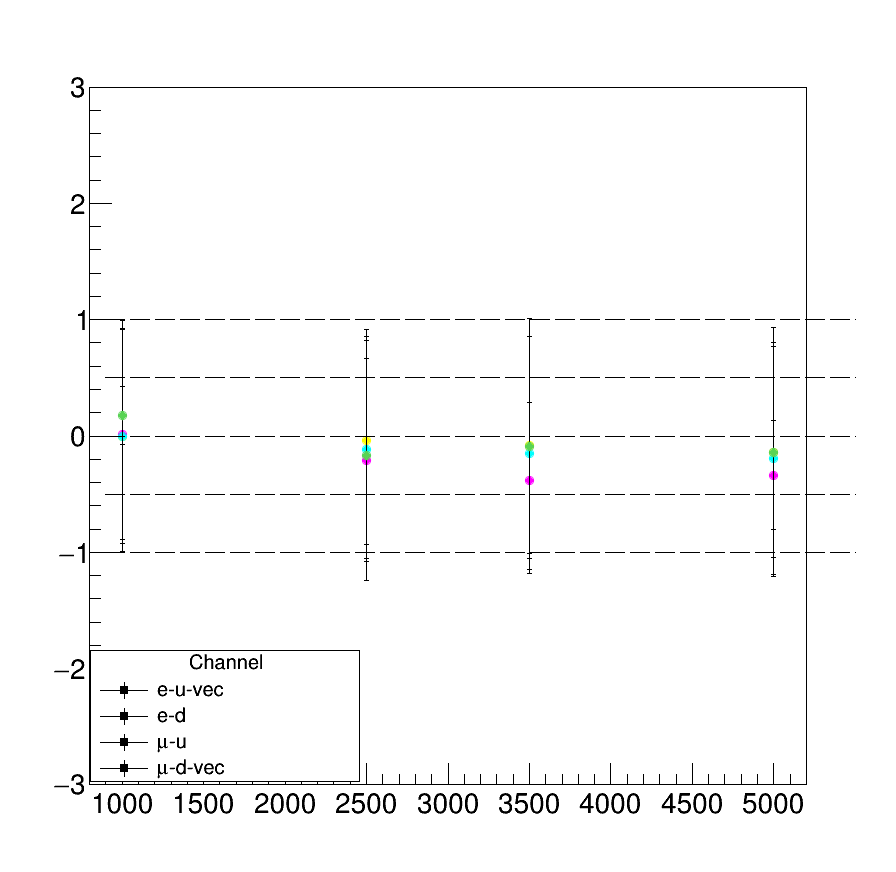
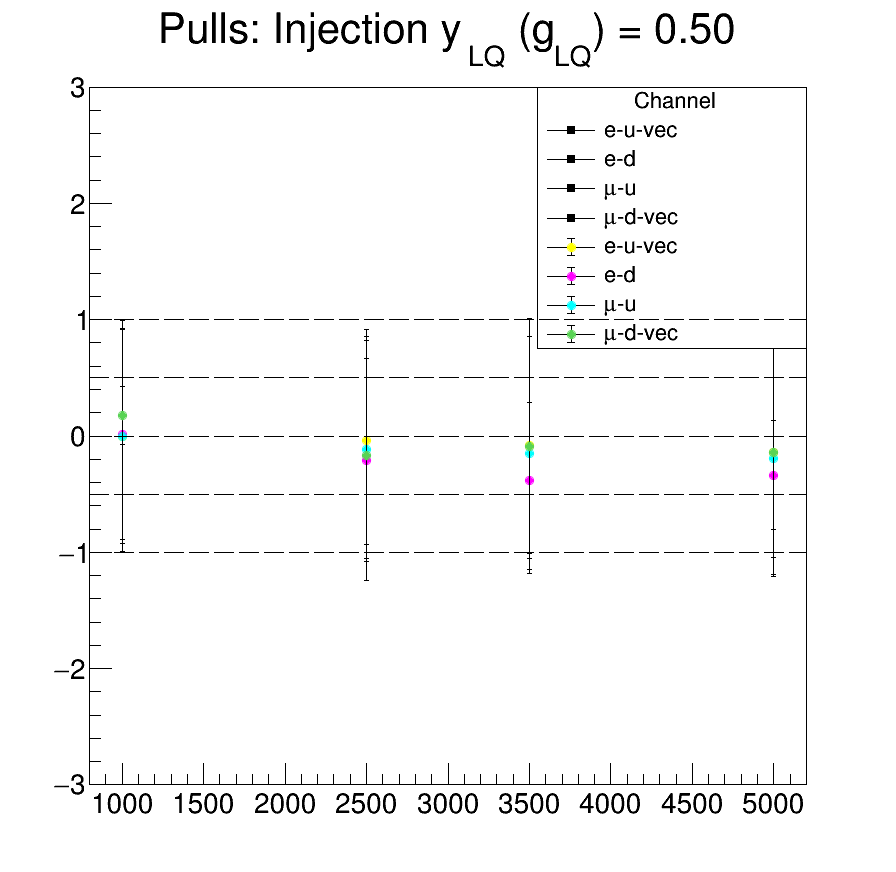
multigraph

diff --git a/analyze/combine/AFB_fits/scripts/LQ_do_bias_test.py b/analyze/combine/AFB_fits/scripts/LQ_do_bias_test.py
@@ -140,14 +140,14 @@ else:
     
     for options.yLQ in [0.0,0.25,0.5]:
         c4 = TCanvas("c4", "", 900, 900)
-        leg = TLegend()
+        leg = TLegend(0.6,0.6,0.9,0.9)
         leg.SetHeader("Channel","C")
 	mg = TMultiGraph()
-        l1 = TLine(900,-1,5500,-1)
-        l2 = TLine(900,-0.5,5500,-0.5)
-        l3 = TLine(900,0,5500,0)
-        l4 = TLine(900,0.5,5500,0.5)
-        l5 = TLine(900,1,5500,1)
+        l1 = TLine(800,-1,5200,-1)
+        l2 = TLine(800,-0.5,5200,-0.5)
+        l3 = TLine(800,0,5200,0)
+        l4 = TLine(800,0.5,5200,0.5)
+        l5 = TLine(800,1,5200,1)
         l1.SetLineStyle(9)
         l2.SetLineStyle(9)
         l3.SetLineStyle(9)
@@ -279,18 +279,23 @@ else:
 	        #draw the list of pulls for 1 channel
                 #print(m_list,pull_mean,[0,0,0,0],pull_sigma)
 	        gr.append(TGraphErrors(4, m_list, pull_mean[i], array("d",[0,0,0,0]), pull_sigma[i]))
-                gr[i].SetTitle("Pulls: Injection y_{LQ} (g_{LQ}) = %.2f"%options.yLQ)
+                #mg.SetTitle("Pulls: Injection y_{LQ} (g_{LQ}) = %.2f"%options.yLQ)
 	        gr[i].SetName('gr%i'%i)
 	        gr[i].SetMarkerStyle(20);
 	        gr[i].SetMarkerColor(mcolor)
-	        leg.AddEntry('gr%i'%i, chan_label+"-"+options.q+"%s"%("-vec" if is_vec else ""), 'lep') 
+	        leg.AddEntry('gr%i'%i, chan_label+"-"+options.q+"%s"%("-vec" if is_vec else "")) 
 	        mg.Add(gr[i])
 	        #gr[i].GetYaxis().SetRangeUser(-3.,3.)
                 mcolor+=1
 		i+=1
-
+	
+	mg.SetTitle("Pulls: Injection y_{LQ} (g_{LQ}) = %.2f"%options.yLQ)
     	mg.Draw("AP")
 	mg.GetYaxis().SetRangeUser(-3.,3.)
+	leg.AddEntry('gr0','e-u-vec','lep')
+	leg.AddEntry('gr1','e-d','lep')
+	leg.AddEntry('gr2','#mu-u','lep')
+	leg.AddEntry('gr3','#mu-d-vec','lep')
         leg.Draw("same")
         l1.Draw("same")
         l2.Draw("same")
